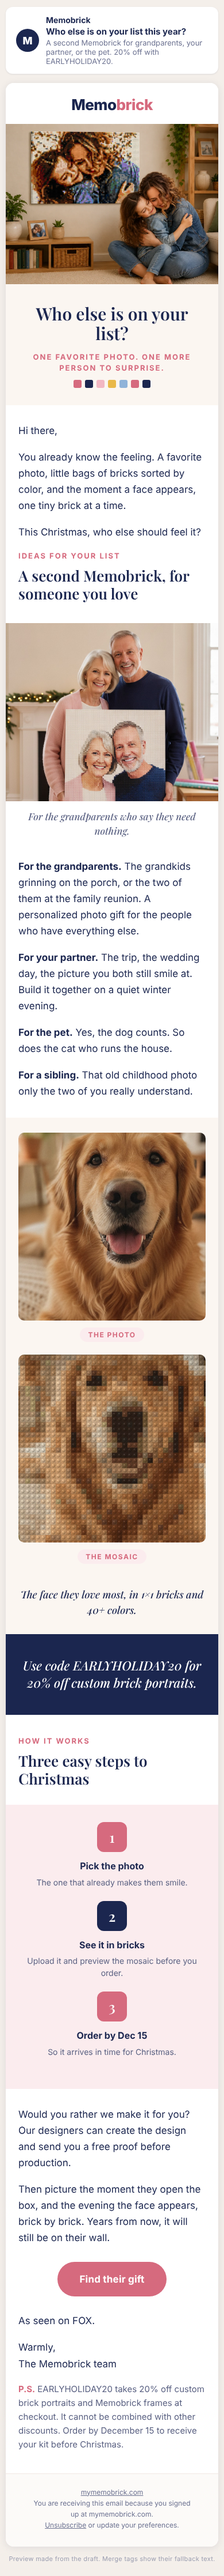
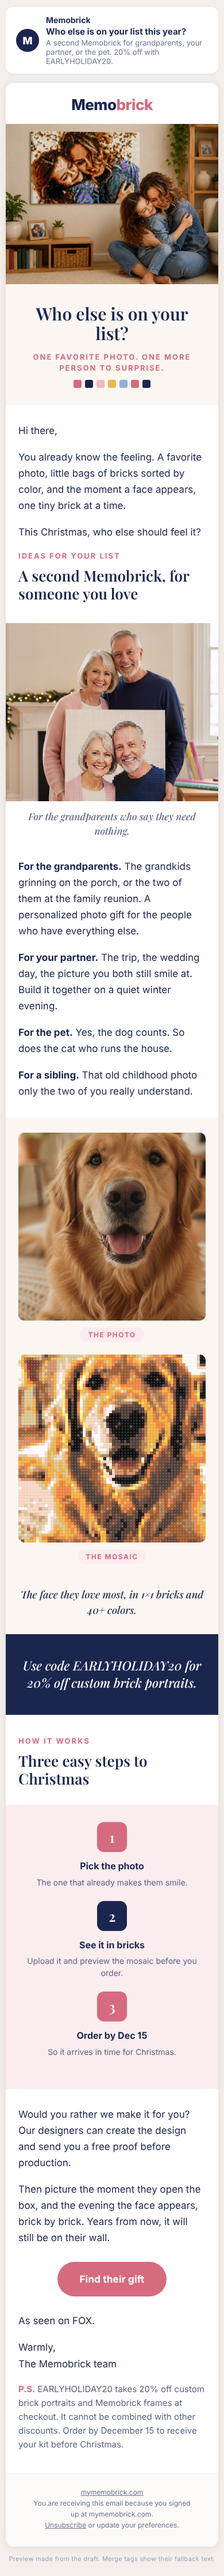
email-campaign-writer: past customers Christmas email uses a real MemoBrick Studio dog mosaic (owner request)
Claude-Session: https://claude.ai/code/session_01AMLDVzMa2aGkQPfaF6oXBQ

Changed region(s): [[0.0615, 0.5288, 0.9231, 0.6221]]

diff --git a/marketing/email/campaign-writer/2026-10-29-who-else-on-your-list.md b/marketing/email/campaign-writer/2026-10-29-who-else-on-your-list.md
@@ -89,7 +89,7 @@ P.S. EARLYHOLIDAY20 takes 20% off custom brick portraits and Memobrick frames at
 - Images:
   - Hero: `https://mymemobrick.com/cdn/shop/files/Custom-Bricked-Mosaic-Portrait-30x20_-Memobrick-59268336.png?width=1200`. Real Memobrick store product image (30×20 product page), hosted, HTTP 200 on 2026-10-20. Alt: "A mother and daughter hugging on a living room floor, below a large brick mosaic on the wall that shows the same hug". The mosaic hangs without a frame claim; no frame is mentioned.
   - Grandparents: `2026-10-29-who-else-grandparents.jpg` (local, in this folder; **owner uploads it in Omnisend**). Illustration: AI image by the social planner (`marketing/social/planner/2026-W43/S-20261025-1.png`, already checked against product facts), cropped to remove its text and button. Alt: "An older couple smiling by a fireplace with a garland, holding a square brick mosaic of their own faces".
-  - Pair: `2026-10-29-who-else-dog-photo.jpg` and `2026-10-29-who-else-dog-mosaic.jpg` (local; **owner uploads both in Omnisend**). Illustration: AI dog photo and the same photo as a 1×1 brick mosaic, by the social planner (`S-20261024-1-2.png` and `S-20261024-1-3.png`, made with `photo_to_bricks.py`), cropped to remove text. Alts: "The photo: a golden retriever smiling at the camera" and "The mosaic: the same golden retriever made of 1×1 bricks" (the preview tool writes alt text from the labels and caption).
+  - Pair: `2026-10-29-who-else-dog-photo.jpg` and `2026-10-29-who-else-dog-mosaic.jpg` (local; **owner uploads both in Omnisend**). Illustration: AI dog photo (social planner, `S-20261024-1-2.png`, cropped to remove text); the mosaic was designed in MemoBrick Studio (version 2026-10-16c) from that photo at 20 × 20" (64 × 64 studs, 14 colors; Studio auto settings with saturation 5 and warmth 20) and drawn with Studio's own brick style (owner request 2026-10-20). Alts: "The photo: a golden retriever smiling at the camera" and "The mosaic: the same golden retriever made of 1×1 bricks" (the preview tool writes alt text from the labels and caption).
 - No person or pet in any image is presented as a customer: no names, quotes, reviews, or "our customer built this". The AI images are labeled as illustrations here.
 - No offer appears inside any image; the code is in live text only (band and P.S.).
 - Omnisend: paste `2026-10-29-who-else-on-your-list-omnisend.html` into a custom HTML block between Omnisend's own header and footer, then replace the three local image paths with the Omnisend image URLs after upload.
